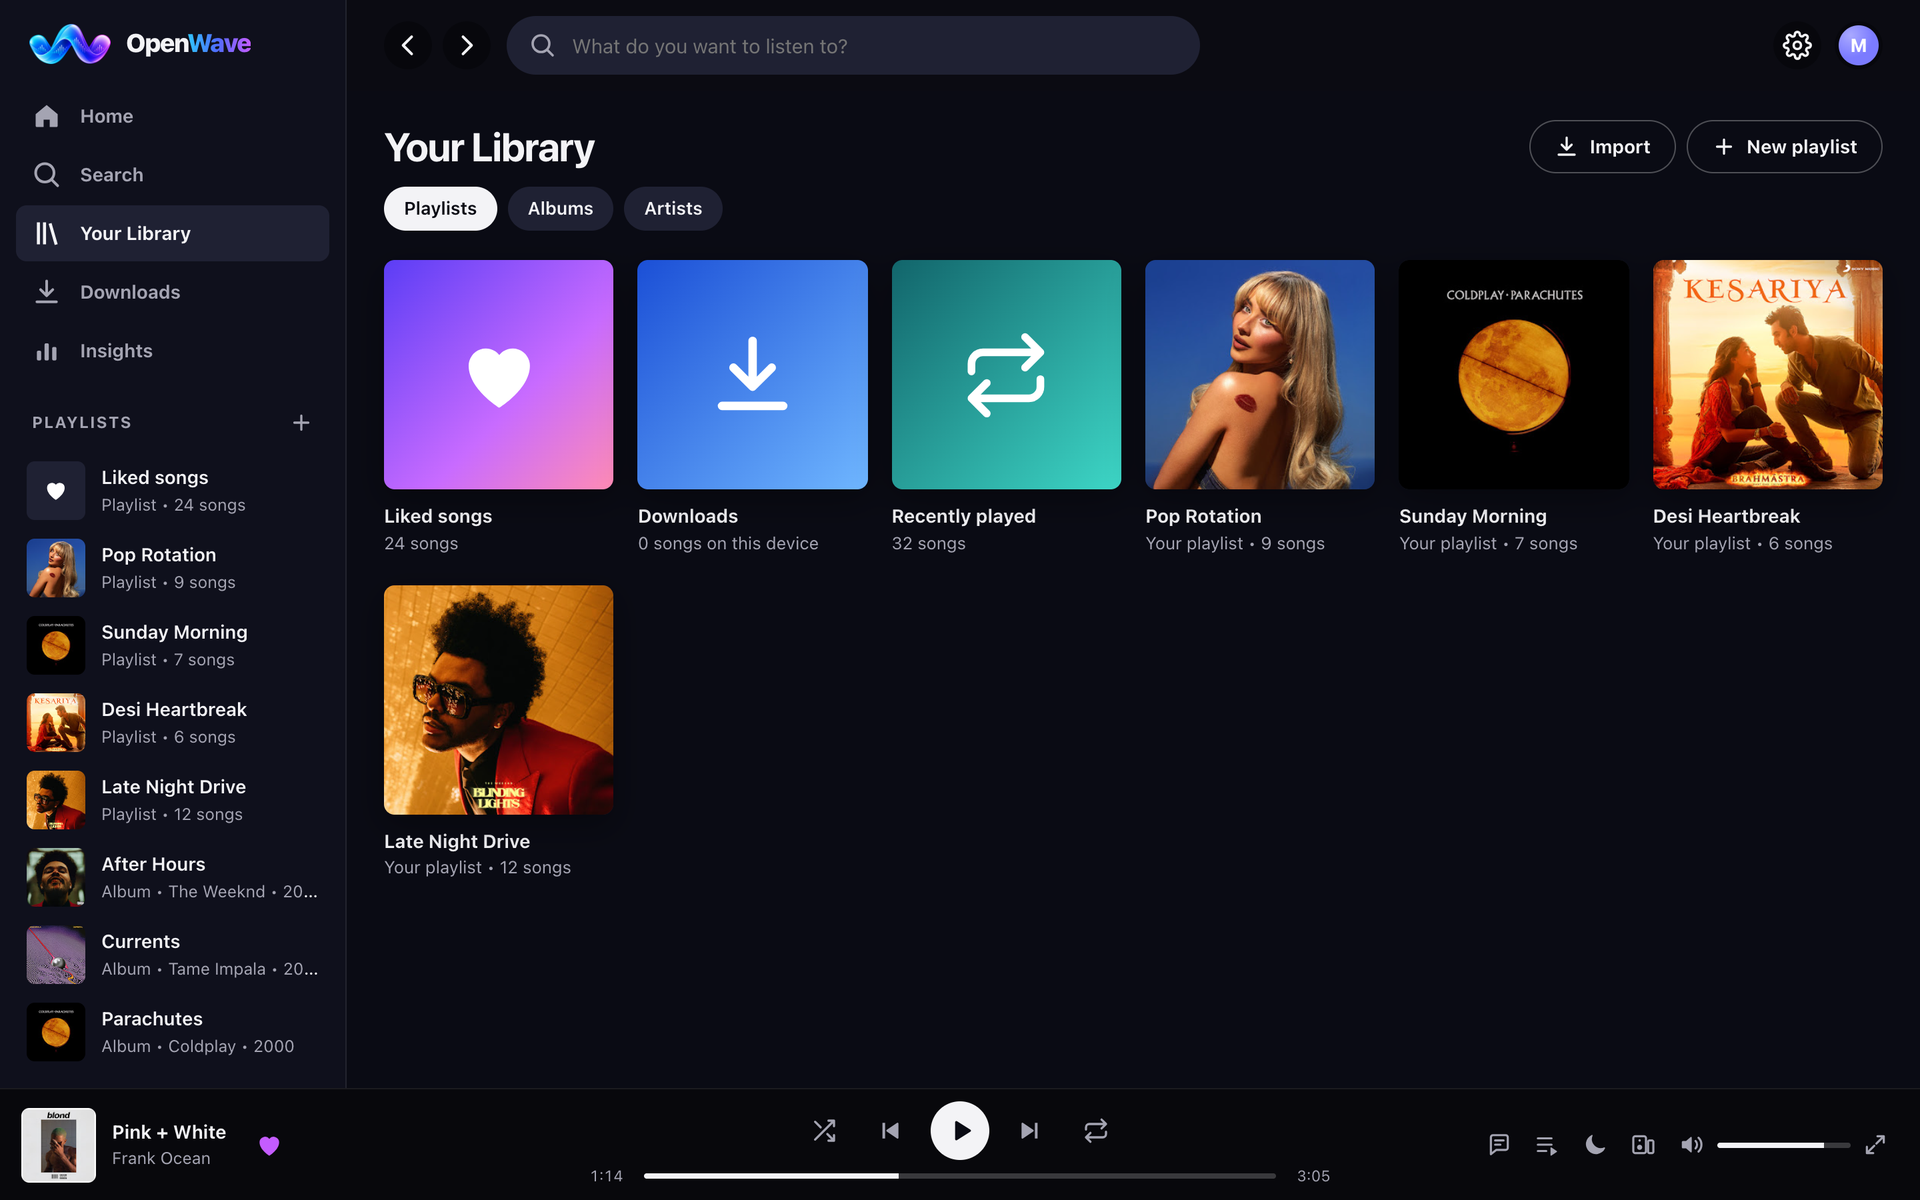
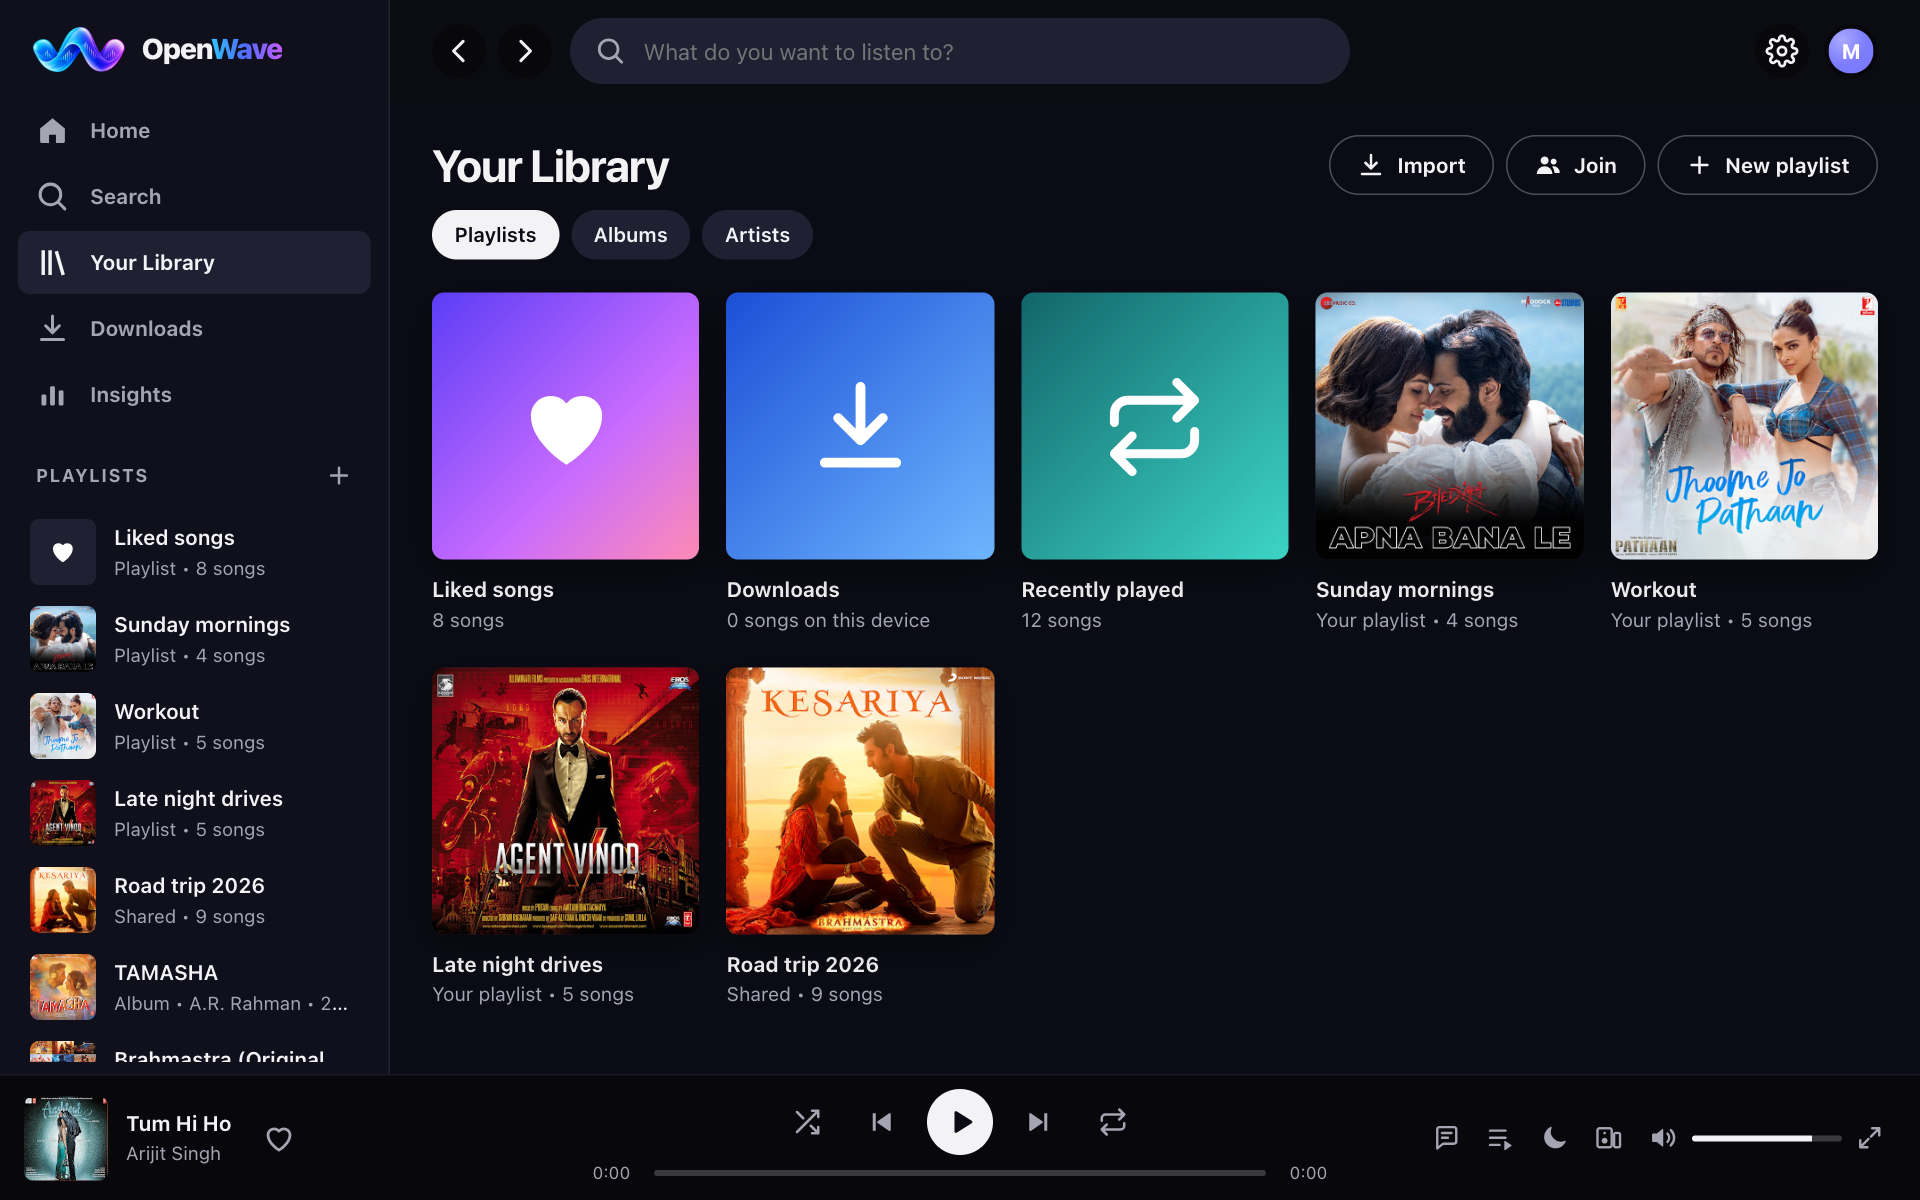
README and website: shared playlists, new screenshots; sharing polish
- README: a "Shared playlists" section with four new screenshots (desktop
  playlist with who-added-what tags, the Shared with panel, a friend's
  phone, joining from an invite), new Library screenshots showing Join, and
  an accurate privacy note in the overview.
- Website: a Shared playlists card and a "No accounts, no tracking" card
  (an even 4x3 grid).
- CHANGELOG: the Unreleased section tidied into Added/Changed/Fixed/
  Development; it becomes the next release's notes.
- Sharing UI: focus starts on Done (never on a Remove button), "Delete for
  everyone" is plain text, the sidebar labels shared playlists "Shared".
- Layout audit: waits up to 5 s for slower screens (lyrics) to finish.

diff --git a/site/index.html b/site/index.html
@@ -75,6 +75,8 @@
   <symbol id="i-link" viewBox="0 0 24 24"><path fill="none" stroke="currentColor" stroke-width="2" stroke-linecap="round" d="M10 14a4.5 4.5 0 0 0 6.4 0l3-3a4.5 4.5 0 0 0-6.4-6.4l-1 1M14 10a4.5 4.5 0 0 0-6.4 0l-3 3a4.5 4.5 0 0 0 6.4 6.4l1-1"/></symbol>
   <symbol id="i-speaker" viewBox="0 0 24 24"><rect x="5" y="2.5" width="14" height="19" rx="2.5" fill="none" stroke="currentColor" stroke-width="2"/><circle cx="12" cy="14.5" r="3.2" fill="none" stroke="currentColor" stroke-width="2"/><circle cx="12" cy="7" r="1.3"/></symbol>
   <symbol id="i-people" viewBox="0 0 24 24"><circle cx="9" cy="8" r="3.5"/><path d="M2 20a7 7 0 0 1 14 0z"/><circle cx="17" cy="9" r="2.6"/><path d="M15.6 13.4A5.5 5.5 0 0 1 22.5 19h-4.6a8.5 8.5 0 0 0-2.3-5.6z"/></symbol>
+  <symbol id="i-shared" viewBox="0 0 24 24"><path fill="none" stroke="currentColor" stroke-width="2" stroke-linecap="round" d="M3 6h11M3 11h11M3 16h6"/><circle cx="17.5" cy="15" r="2.6"/><path d="M12.6 21.5a4.9 4.9 0 0 1 9.8 0z"/></symbol>
+  <symbol id="i-lock" viewBox="0 0 24 24"><rect x="4.5" y="10.5" width="15" height="10.5" rx="2.5"/><path fill="none" stroke="currentColor" stroke-width="2.2" stroke-linecap="round" d="M8 10.5V7.5a4 4 0 0 1 8 0v3"/></symbol>
   <symbol id="i-person" viewBox="0 0 24 24"><circle cx="12" cy="8" r="4"/><path d="M4 21a8 8 0 0 1 16 0z"/></symbol>
   <symbol id="i-chart" viewBox="0 0 24 24"><rect x="4" y="12" width="3.5" height="8" rx="1.2"/><rect x="10.25" y="6" width="3.5" height="14" rx="1.2"/><rect x="16.5" y="9" width="3.5" height="11" rx="1.2"/></symbol>
 </svg>
@@ -109,8 +111,10 @@
       <div class="card"><div class="ico"><svg aria-hidden="true"><use href="#i-link"/></svg></div><h3>Bring your playlists</h3><p>From Spotify, Apple Music, YouTube Music, Amazon Music, Deezer and more. No song limit.</p></div>
       <div class="card"><div class="ico"><svg aria-hidden="true"><use href="#i-speaker"/></svg></div><h3>Play on another device</h3><p>Send the music from your phone to your computer and use the phone as the remote.</p></div>
       <div class="card"><div class="ico"><svg aria-hidden="true"><use href="#i-people"/></svg></div><h3>Listen together</h3><p>Friends on your Wi-Fi join in and hear the same song at the same moment.</p></div>
+      <div class="card"><div class="ico"><svg aria-hidden="true"><use href="#i-shared"/></svg></div><h3>Shared playlists</h3><p>Build a playlist with friends and family, each from their own device, anywhere. End-to-end encrypted.</p></div>
       <div class="card"><div class="ico"><svg aria-hidden="true"><use href="#i-person"/></svg></div><h3>Profiles & sync</h3><p>Everyone gets their own likes and playlists, synced across devices.</p></div>
       <div class="card"><div class="ico"><svg aria-hidden="true"><use href="#i-chart"/></svg></div><h3>Your year in music</h3><p>Top artists, top songs, minutes listened, with a card to share.</p></div>
+      <div class="card"><div class="ico"><svg aria-hidden="true"><use href="#i-lock"/></svg></div><h3>No accounts, no tracking</h3><p>No sign-up and no email. Your library stays on your own devices, and nothing reports what you play.</p></div>
     </div>
   </section>
 

diff --git a/openwave/web/js/app.js b/openwave/web/js/app.js
@@ -200,7 +200,7 @@ function renderSidebar() {
   const pic = (url, round) => `<img class="${round ? 'round' : ''}" loading="lazy" src="${img(url, 120)}" alt="">`;
   const html = [
     item('#/liked', `<span class="tile liked-tile">${icon('heart-fill')}</span>`, 'Liked songs', `Playlist • ${store.liked.length} songs`),
-    ...store.playlists.map((p) => item(`#/my/${p.id}`, p.tracks[0] ? pic(p.tracks[0].thumbnail) : `<span class="tile liked-tile" style="background:var(--surface-3)">${icon('queue')}</span>`, p.name, `Playlist • ${p.tracks.length} songs`)),
+    ...store.playlists.map((p) => item(`#/my/${p.id}`, p.tracks[0] ? pic(p.tracks[0].thumbnail) : `<span class="tile liked-tile" style="background:var(--surface-3)">${icon(p.shared ? 'people' : 'queue')}</span>`, p.name, `${p.shared ? 'Shared' : 'Playlist'} • ${p.tracks.length} songs`)),
     ...store.savedList('playlist').map((c) => item(`#/playlist/${enc(c.id)}`, pic(c.thumbnail), c.title, 'Playlist')),
     ...store.savedList('album').map((c) => item(`#/album/${enc(c.id)}`, pic(c.thumbnail), c.title, c.subtitle || 'Album')),
     ...store.savedList('artist').map((c) => item(`#/artist/${enc(c.id)}`, pic(c.thumbnail, true), c.title, 'Artist')),

diff --git a/openwave/web/css/app.css b/openwave/web/css/app.css
@@ -831,7 +831,7 @@ body.linked .pb-artist { display: none; }
 .share-sync { margin-top: 10px !important; font-size: 12.5px !important; }
 .share-dialog .row-btns { flex-wrap: wrap; align-items: center; }
 .share-dialog .spacer { flex: 1; }
-.btn.danger-text { background: none; color: var(--danger); padding-left: 0; padding-right: 8px; }
+.btn.danger-text { background: none; border-color: transparent; color: var(--danger); padding-left: 0; padding-right: 8px; }
 .share-dialog textarea { width: 100%; margin-top: 12px; background: var(--surface-3); border: 1px solid var(--line); border-radius: 8px; padding: 11px 13px; outline: none; resize: vertical; font: 12.5px/1.4 ui-monospace, SFMono-Regular, Menlo, monospace; color: var(--text); overflow-wrap: anywhere; }
 .share-dialog textarea:focus { border-color: var(--accent); }
 .share-error { color: var(--danger) !important; margin-top: 10px !important; }

diff --git a/openwave/web/js/sharing.js b/openwave/web/js/sharing.js
@@ -79,10 +79,11 @@ export async function openSharing(playlistId) {
         <button type="button" class="btn danger-text" data-leave>${info.owner ? 'Delete for everyone' : 'Leave playlist'}</button>
         <span class="spacer"></span>
         <button type="button" class="btn" data-send>${icon('share')} Send invite</button>
-        <button class="btn primary" value="ok">Done</button>
+        <button class="btn primary" value="ok" data-done>Done</button>
       </div></form>`, {
     wide: true,
     onMount: (d) => {
+      d.querySelector('[data-done]').focus({ preventScroll: true });    // never start on a Remove button
       const input = d.querySelector('.share-link input');
       d.querySelector('[data-copy]').onclick = () => copy(info.invite, input);
       d.querySelector('[data-send]').onclick = async () => {

diff --git a/README.md b/README.md
@@ -36,8 +36,8 @@
 OpenWave is an open-source, non-commercial music client for YouTube Music's public catalogue. It is an engineering project first: one engine, native apps on five platforms, a synced personal library, and devices that play together. It has no accounts, no tracking and no monetisation of any kind, and it hosts no content.
 
 - **One engine, every platform.** A single Python engine powers native apps for macOS, Windows, Linux and Android, a web app for iPhone, and a Docker image for home servers. Shared services keep the core listening and library experience consistent.
-- **Your library is yours.** Profiles, likes, playlists and listening history live in a SQLite database on your own device or server. Nothing is sent to a cloud service, and the apps never report usage.
-- **Built like a product, not a script.** Gapless playback, personal mixes, synced lyrics, offline downloads, playlist import from other services, multi-device control and listen-together sessions, in-app updates, and release checksums.
+- **Your library is yours.** Profiles, likes, playlists and listening history live in a SQLite database on your own device or server. Nothing is sent to a cloud service (except an end-to-end encrypted copy of a playlist you choose to share), and the apps never report usage.
+- **Built like a product, not a script.** Gapless playback, personal mixes, synced lyrics, offline downloads, playlist import from other services, shared playlists with friends anywhere, multi-device control and listen-together sessions, in-app updates, and release checksums.
 
 <table>
   <tr><td><b>License</b></td><td>GPL-3.0. The project is offered free, with no accounts or monetisation.</td></tr>
@@ -96,7 +96,7 @@ Every app is self-contained, with nothing else to install. Installers are attach
 - **Liked songs, playlists you can reorder by dragging, saved albums and followed artists.**
 - **Made for you.** Personal mixes built from what you actually play, plus two smart playlists: **On Repeat** (your most-played songs this month) and **Rediscover** (favourites you haven't played in a while).
 - **Insights.** Minutes listened, top artists, top songs and when you listen, for the last week, month, year or all time, with a shareable image card.
-- **Shared playlists.** Invite friends and family to one of your playlists with a link. Everyone adds, removes and reorders songs from their own OpenWave, on any device, anywhere, and each song shows who added it. Changes reach everyone within seconds, and edits made offline sync when you reconnect. Only the owner can rename the playlist, remove people or delete it, and removing someone locks them out with a new key. See [how shared playlists sync](#privacy-and-security).
+- **Shared playlists** with friends and family on their own devices, anywhere (see [below](#shared-playlists-one-playlist-everyones-devices)).
 - **Share** any song, album, playlist or artist as a link anyone can open, or share your own playlist as a song list a friend can import.
 
 <table>
@@ -109,6 +109,29 @@ Every app is self-contained, with nothing else to install. Installers are attach
     <td width="50%"><img src="docs/screenshots/profiles.png" alt="Profile picker"><p align="center"><sub>A profile for everyone, synced everywhere</sub></p></td>
   </tr>
 </table>
+
+### Shared playlists: one playlist, everyone's devices
+
+Invite friends and family to a playlist with a link, and edit it together from your own phones and computers, wherever you each are. No shared Wi-Fi, accounts or servers are needed.
+
+- **Everyone edits.** Add, remove and reorder songs from your own OpenWave; each song shows a tag for who added it. Changes reach everyone in a few seconds, and edits made offline sync as soon as you are back online.
+- **Invite with a link.** Tap the people button on any of your playlists, then **Send invite**. Friends paste the link in **Library → Join**.
+- **The owner stays in charge.** Only the owner can rename the playlist, remove someone or delete it for everyone. A removed person keeps a copy of the songs but is locked out with a new key, and old invite links stop working.
+- **Private.** The playlist is end-to-end encrypted with a key that exists only in the invite link. It syncs through public Nostr relays, which never see song names or who you are ([details](#privacy-and-security)).
+
+<table>
+  <tr>
+    <td width="62%"><img src="docs/screenshots/shared-playlist.png" alt="A shared playlist showing who added each song"><p align="center"><sub>A shared playlist: each song shows who added it</sub></p></td>
+    <td width="38%"><img src="docs/screenshots/shared-with.png" alt="The Shared with panel"><p align="center"><sub>Who's in it, and the invite link</sub></p></td>
+  </tr>
+</table>
+
+<p align="center">
+  <img src="docs/screenshots/mobile-shared.png" width="260" alt="The same shared playlist on a friend's phone">
+  &nbsp;
+  <img src="docs/screenshots/mobile-join.png" width="260" alt="Joining a shared playlist from an invite link">
+</p>
+<p align="center"><sub>The same playlist on a friend's phone, and joining from an invite link.</sub></p>
 
 ### Devices: play anywhere, listen together
 

diff --git a/CHANGELOG.md b/CHANGELOG.md
@@ -6,6 +6,7 @@ Write new changes under **Unreleased**; `scripts/release.sh` turns that into the
 ## [Unreleased]
 
 ### Added
+- **Shared playlists.** Invite friends and family to a playlist with a link: everyone adds, removes and reorders songs from their own OpenWave on any device, anywhere, and each song shows who added it. Changes sync within seconds, and edits made offline sync when you're back online. Only the owner can rename it, remove people (who are then locked out with a new key) or delete it for everyone; anyone else can leave. It syncs end-to-end encrypted through public Nostr relays, so OpenWave still runs no servers. Find it under a playlist's people button, and Library → Join.
 - **iPhone, anywhere:** the Mac app's Settings → Phone has a new "Anywhere" option. With Tailscale (free) on the Mac and the iPhone, one click gives the iPhone a private HTTPS address for OpenWave on the Mac: it works on mobile data, downloads play offline, and only your own devices can open it.
 - **Install on a Mac with one command**, with no "can't verify the developer" warning: `curl -fsSL https://saisiddharthbs.github.io/OpenWave/install.sh | bash`. It picks the Apple Silicon or Intel version by itself.
 - **Stats page** on the website: downloads per app, version and day, stars and visitors. Public numbers from GitHub only; nothing is collected from the apps.
@@ -13,22 +14,19 @@ Write new changes under **Unreleased**; `scripts/release.sh` turns that into the
 ### Changed
 - **Mac updates install themselves.** The app downloads the new version, checks its checksum, swaps itself and restarts, with no browser and no security warning.
 - The website's Mac button no longer offers the Apple Silicon download to Intel Macs.
-- A new README with fresh screenshots of every platform, line icons instead of emoji on the website, and release notes without emoji.
+- A new README with fresh screenshots of every platform (including shared playlists and the Library), line icons instead of emoji on the website, and release notes without emoji.
 - A security policy, code of conduct, pull request template and clearer issue forms.
 - OpenWave now describes itself as an open-source, non-commercial music player, with no "ad-free" or "instead of a subscription" wording in the app, website, README or release notes, and a clearer note on legal and responsible use.
-
-### Added
-- **Shared playlists.** Invite friends and family to a playlist with a link: everyone adds, removes and reorders songs from their own OpenWave on any device, anywhere, and each song shows who added it. Changes sync within seconds and edits made offline sync later. Only the owner can rename, remove people (who are then locked out with a new key) or delete it for everyone; others can leave. Syncs end-to-end encrypted through public Nostr relays, so OpenWave still runs no servers. Find it in a playlist's people button, and Library → Join.
 
 ### Fixed
 - **Long song names on phones:** a long title or artist list no longer pushes the artwork, the end time and the controls of the Now Playing screen (and its Up next and Lyrics sheets) off the right edge, and no longer makes Search results wider than the screen. Titles are shortened with "…" instead. Fixed at the root: no one-column layout can grow wider than the screen any more.
 - Very long unbroken words in album, artist and playlist headers now wrap instead of widening the header.
-
-- **Notices** in the app were squeezed into half the screen width on phones; they now use the full width.
+- Notices in the app were squeezed into half the screen width on phones; they now use the full width.
 - A change the engine refuses no longer blocks every later library change on that device.
 
-### Added (development)
-- **Layout audit** (`tests/ui/layout_audit.mjs`, run in CI on every push): opens all 16 main screens at eight sizes, from a 320 px phone to a desktop, with real-world and extremely long names, and fails if anything goes past the edge of the screen or a screen fails to open.
+### Development
+- **Layout audit** (`tests/ui/layout_audit.mjs`, run in CI on every push): opens 19 screens at eight sizes, from a 320 px phone to a desktop, with real-world and extremely long names, and fails if anything goes past the edge of the screen or a screen fails to open.
+- Shared-playlist tests: encryption, signatures (BIP-340 test vectors), merging, permissions, and three engines syncing through a private relay (`tests/test_shared.py`).
 
 ## [0.3.1] — 2026-10-25
 
